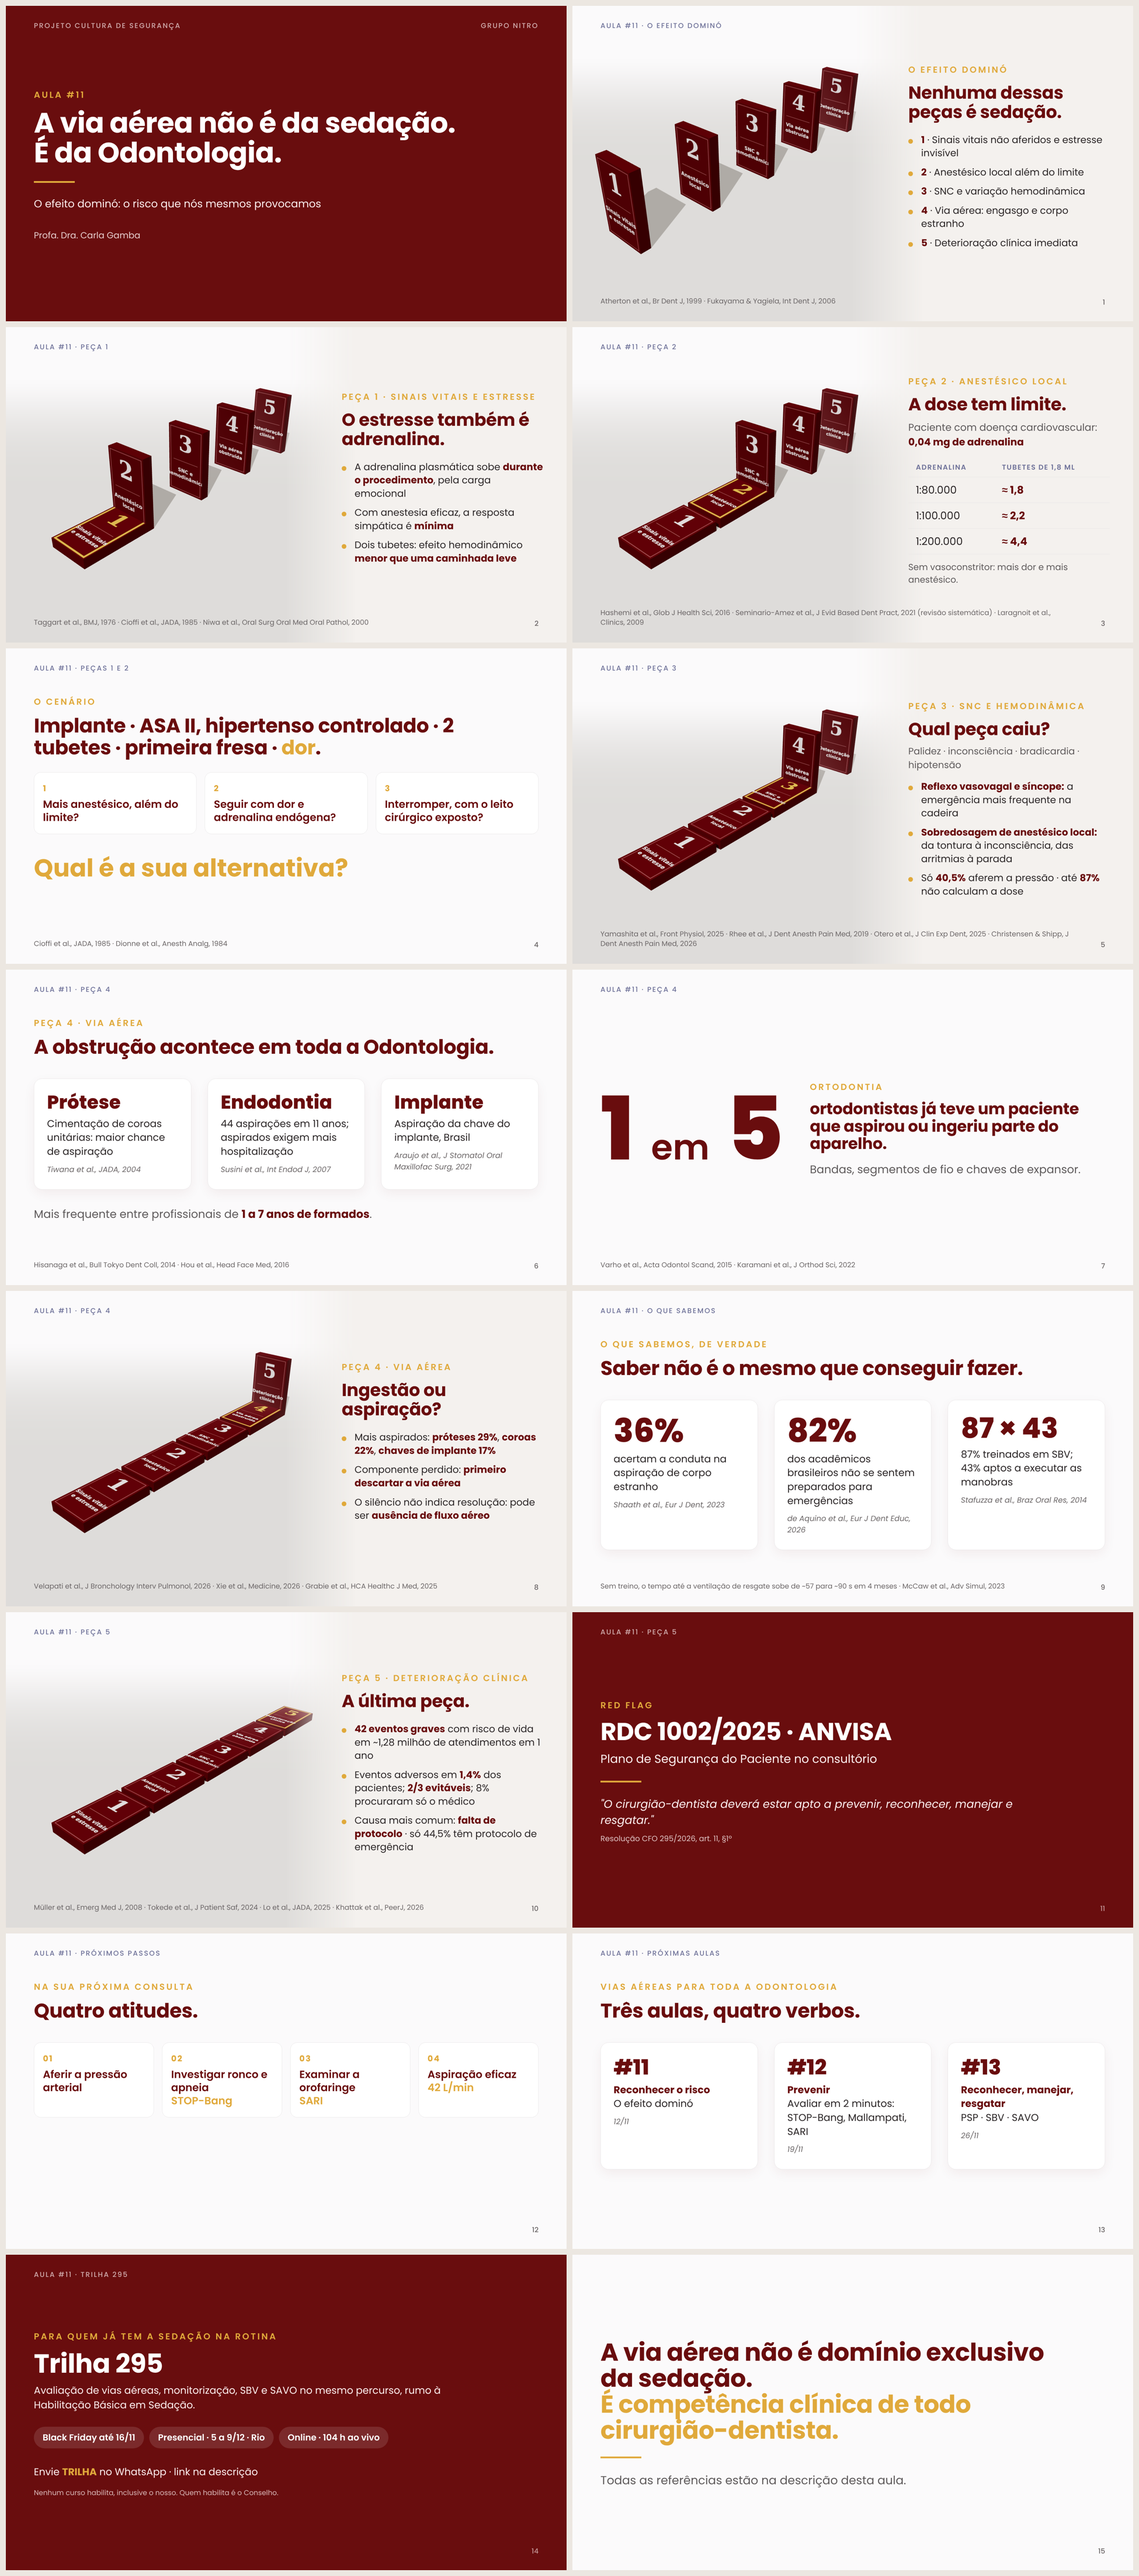
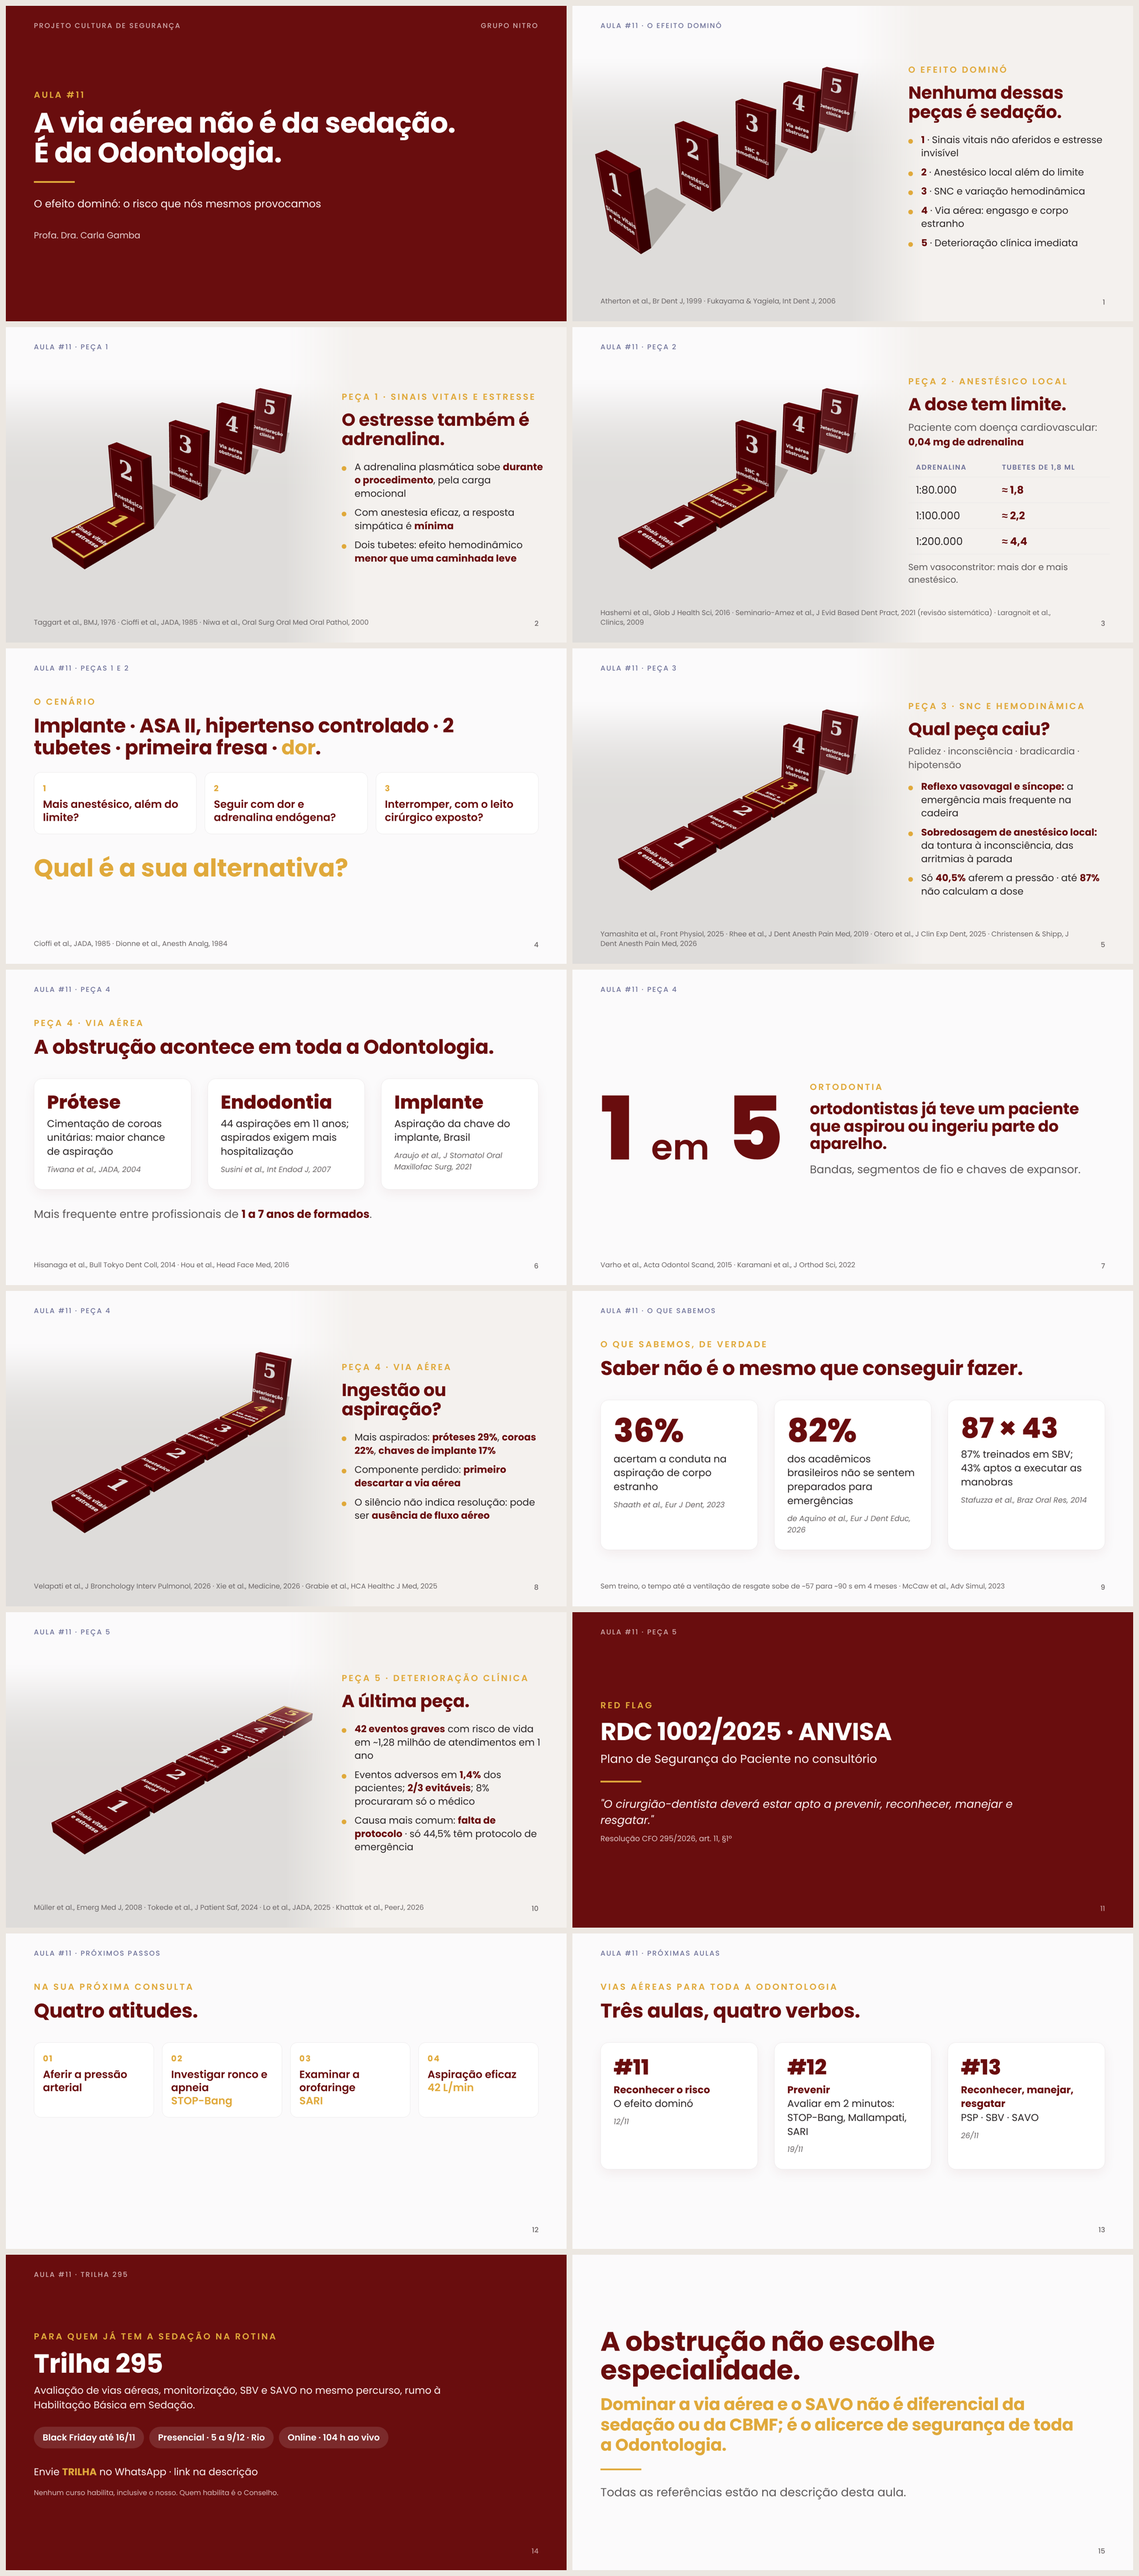
Aula #11: fechamento 'A obstrução não escolhe especialidade' e frase da cavidade oral × via aérea no Bloco 6
Claude-Session: https://claude.ai/code/session_01MYEGXM9LVv4Rd1VsREZmpT

Changed region(s): [[0.5231, 0.9009, 0.9231, 0.963]]

diff --git a/aulas-vias-aereas/slides-aula11/aula11-slides.html b/aulas-vias-aereas/slides-aula11/aula11-slides.html
@@ -309,8 +309,8 @@ table.dose td b{color:var(--wine)}
 <!-- 15 · ENCERRAMENTO -->
 <section class="slide">
   <div class="content" style="display:flex;flex-direction:column;justify-content:center">
-    <h1 style="font-size:84px;max-width:1600px">A via aérea não é domínio exclusivo da sedação.</h1>
-    <h1 style="font-size:84px;max-width:1600px;color:var(--gold)">É competência clínica de todo cirurgião-dentista.</h1>
+    <h1 style="font-size:92px;max-width:1650px">A obstrução não escolhe especialidade.</h1>
+    <h2 style="font-size:58px;max-width:1650px;color:var(--gold);margin-top:34px;line-height:1.2">Dominar a via aérea e o SAVO não é diferencial da sedação ou da CBMF; é o alicerce de segurança de toda a Odontologia.</h2>
     <div class="cover-line"></div>
     <p class="lead" style="font-size:40px">Todas as referências estão na descrição desta aula.</p>
   </div>

diff --git a/aulas-vias-aereas/03-roteiro-aulas-11-12-13.md b/aulas-vias-aereas/03-roteiro-aulas-11-12-13.md
@@ -60,7 +60,7 @@ Evidências: Dossiês 01, 02 e 04 (DOIs no repositório).
 | 9:30–12:00 | **5. Resgatar** | 5 | Dispositivo supraglótico: dentistas ventilam sem insuflação gástrica após treino (Keilholz 2015) · máscara laríngea correta após 5 treinos (Morse 2002) |
 | 12:00–14:30 | **6. Suporte de vida é de toda a Odontologia** | 6 | Declaração de política da FDI sobre SBV na prática odontológica (2021) · Resuscitation Council UK (Jevon 2016) · **DALS: suporte avançado de vida odontológico na Coreia** (Kim 2026) · simulação: **100% × 0% de aprovação** (Manton 2021), habilidade estável em 11 meses (Alawaji 2026) |
 | 14:30–17:30 | **7. O PSP como trilha** | 7 | Causa mais comum dos eventos: **falta de protocolo** (Lo, JADA 2025) · checklists reduzem incidentes (Zouaidi 2024) · 8 estratégias de cultura de segurança (Ensaldo-Carrasco 2026) · 95% da Odontologia está no consultório (Bailey 2021). "O PSP não é um documento para a gaveta. É a trilha." RDC 1002/2025 + CFO 295/2026 |
-| 17:30–20:00 | **8. Fechamento e convite** | 8 | "A via aérea não é domínio exclusivo da sedação. É competência clínica de todo cirurgião-dentista." **Trilha 295: bônus até 27/11, vagas reais (12 Mentoria, 8 Imersão, 20 SAVO), turma de 5 a 9/12.** "Nenhum curso habilita, inclusive o nosso." |
+| 17:30–20:00 | **8. Fechamento e convite** | 8 | "A obstrução não escolhe especialidade. Dominar a via aérea e o SAVO não é diferencial da sedação ou da CBMF; é o alicerce de segurança de toda a Odontologia." **Trilha 295: bônus até 27/11, vagas reais (12 Mentoria, 8 Imersão, 20 SAVO), turma de 5 a 9/12.** "Nenhum curso habilita, inclusive o nosso." |
 
 ---
 

diff --git a/aulas-vias-aereas/05-aula11-pacote-da-semana.md b/aulas-vias-aereas/05-aula11-pacote-da-semana.md
@@ -291,9 +291,10 @@ precisa ser estudada e apreciada. Ainda assim, grande parte da Odontologia
 segue como se não ouvisse e não enxergasse esse alerta.
 
 Será, então, a via aérea um tema exclusivo de uma academia de sedação? Não. A
-sedação aumenta o risco, mas não é ela que cria a via aérea. A via aérea está
-presente em toda boca aberta, em toda cadeira reclinada e em todo fio que se
-solta. A Resolução CFO 295/2026 estabelece que o cirurgião-dentista deverá estar
+sedação aumenta o risco, mas não é ela que cria a via aérea. Na Odontologia, a
+cavidade oral é o nosso campo de trabalho, mas a via aérea é a nossa
+responsabilidade: dominar sua anatomia e fisiologia é o que transforma o risco
+iminente em segurança clínica. A Resolução CFO 295/2026 estabelece que o cirurgião-dentista deverá estar
 apto a prevenir, reconhecer, manejar e resgatar.
 
 Toda grande mudança na segurança começa questionando aquilo que, durante anos,
@@ -340,8 +341,9 @@ Conselho.
 
 [pausa]
 
-A via aérea não é domínio exclusivo da sedação. É competência clínica de todo
-cirurgião-dentista. Até a próxima quinta."
+A obstrução não escolhe especialidade. Dominar a via aérea e o SAVO não é
+diferencial da sedação ou da cirurgia bucomaxilofacial; é o alicerce de
+segurança de toda a Odontologia. Até a próxima quinta."
 
 **Referências para a descrição do YouTube:** Atherton GJ et al. Br Dent J
 1999;186:72-79 · Fukayama H, Yagiela JA. Int Dent J 2006;56:102-108 · Boriosi JP
